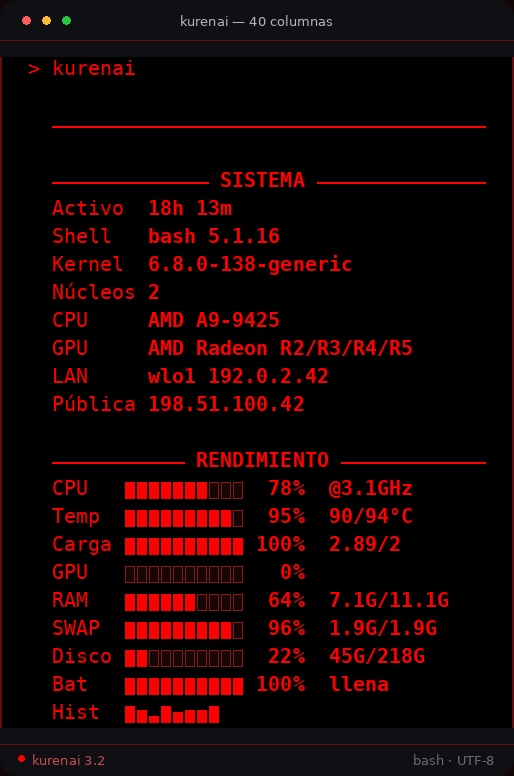
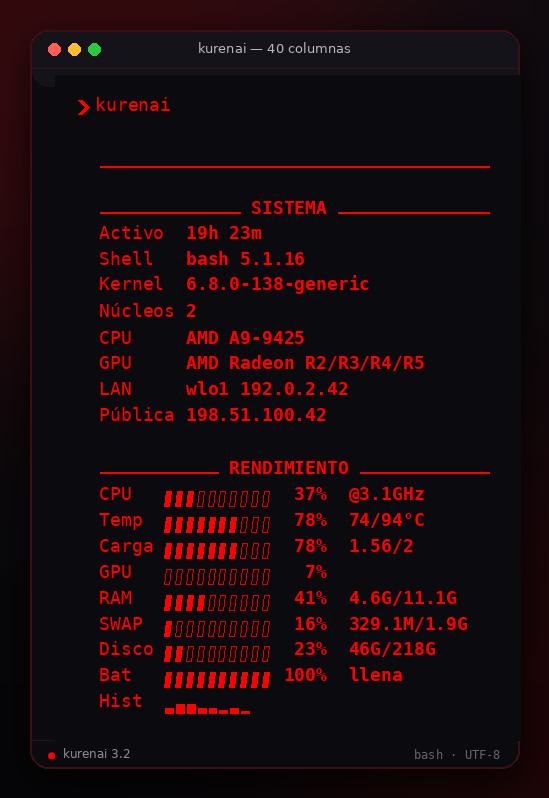
assets: capturas basadas en el original

diff --git a/README.md b/README.md
@@ -83,7 +83,7 @@ Hay dos formas de usarlo:
 ## Vista rápida
 
 <p align="center">
-  <img src="assets/preview.png?v=3" alt="kurenai en una terminal de 40 columnas" width="514">
+  <img src="assets/preview.png?v=4" alt="kurenai en una terminal de 40 columnas" width="549">
 </p>
 
 > Captura a 40 columnas. Las IPs son de ejemplo.
@@ -218,7 +218,7 @@ kurenai -m -n          # oculta la IP pública
 El modo monitor entra en la pantalla alternativa, oculta el cursor y redibuja el panel cada segundo. Mantiene la misma estética: rojo neón, barras `▰/▱`, reglas `─` y dos columnas.
 
 <p align="center">
-  <img src="assets/monitor.gif?v=3" alt="kurenai -m actualizando el panel en vivo" width="100%">
+  <img src="assets/monitor.gif?v=4" alt="kurenai -m actualizando el panel en vivo" width="100%">
 </p>
 
 > GIF a 0.5 s para que se aprecie el refresco; el intervalo por defecto es 1 s. Las IPs son de ejemplo.
